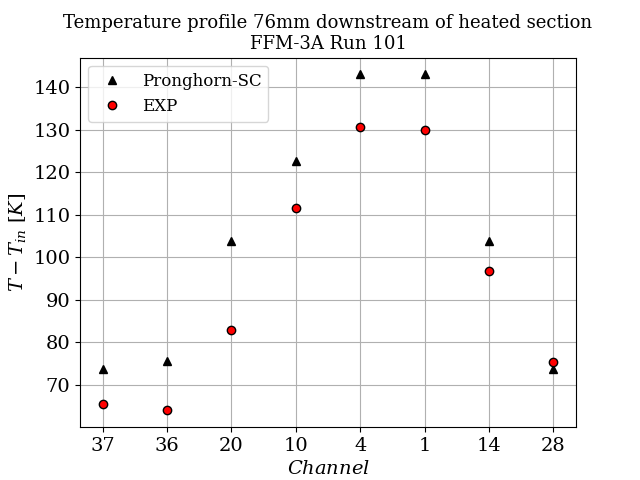
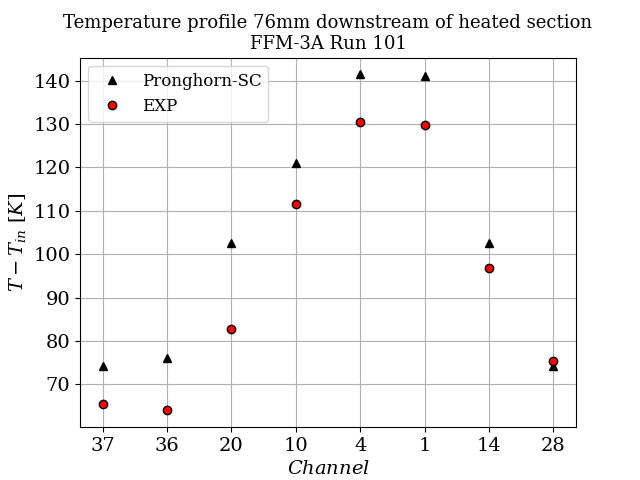
Added blockage validation case Refs #29484

diff --git a/modules/subchannel/examples/Blockage/plot5B.py b/modules/subchannel/examples/Blockage/plot5B.py
@@ -1,0 +1,41 @@
+import numpy as np
+import matplotlib.pyplot as plt
+
+############### MAKE PRETTY ###################
+plt.rcParams["font.family"] = "serif"
+plt.rcParams["mathtext.fontset"] = "dejavuserif"
+###############################################
+
+EXP_high = np.genfromtxt("T_EXP_HIGH.csv", skip_header=0, delimiter=',')
+EXP_low = np.genfromtxt("T_EXP_LOW.csv", skip_header=0, delimiter=',')
+SC = np.genfromtxt("FFM-5B_out.csv", skip_header=2, delimiter=',') - 273.15
+
+# plt.figure()
+# plt.plot(SC[1:], "k^", label = "Pronghorn-SC")
+# plt.plot(EXP_high[:, 1], "ko", markerfacecolor="r", label = "EXP")
+# plt.title(r"Temperature profile at thermocouple location" "\n" "High flow Exp, FFM Series 6, Test 12, Run 101", fontsize=13)
+# plt.xticks([i for i in range(len(EXP_high[:, 0]))],
+#            [str(int(i)) for i in EXP_high[:, 0]])
+# plt.xlabel(r'$Channel~\#$', fontsize=14)
+# plt.ylabel(r'$T~[C]$', fontsize=14)
+# plt.legend(fontsize=12)
+# plt.xticks(fontsize=14)
+# plt.yticks(fontsize=14)
+# plt.ylim(360,410)
+# plt.grid()
+# plt.savefig("FFM-5B.png")
+
+plt.figure()
+plt.plot(SC[1:], "k^", label = "Pronghorn-SC")
+plt.plot(EXP_low[:, 1], "ko", markerfacecolor="r", label = "EXP")
+plt.title(r"Temperature profile at thermocouple location" "\n" "Low flow Exp, FFM Series 6, Test 12, Run 109", fontsize=13)
+plt.xticks([i for i in range(len(EXP_low[:, 0]))],
+           [str(int(i)) for i in EXP_low[:, 0]])
+plt.xlabel(r'$Channel~\#$', fontsize=14)
+plt.ylabel(r'$T~[C]$', fontsize=14)
+plt.legend(fontsize=12)
+plt.xticks(fontsize=14)
+plt.yticks(fontsize=14)
+plt.ylim(500,580)
+plt.grid()
+plt.savefig("FFM-5B2.png")

diff --git a/modules/subchannel/examples/Blockage/plot2B.py b/modules/subchannel/examples/Blockage/plot2B.py
@@ -1,0 +1,27 @@
+# %%
+##### LOAD MODULES ###############
+import numpy as np
+import matplotlib.pyplot as plt
+SC = np.genfromtxt("FFM-2B_out.csv", skip_header=2, delimiter=',')
+############### MAKE PRETTY ###################
+plt.rcParams["font.family"] = "serif"
+plt.rcParams["mathtext.fontset"] = "dejavuserif"
+###############################################
+T_in = T_in = 589.15
+Channels = np.array([1, 2, 4, 6, 10, 35])
+EXP = np.array([15.96, 13.86, 14.7, 9.24, 14.7, 15.12])
+
+plt.figure()
+plt.plot(SC[1:] - T_in, "k^", markerfacecolor="k", label = "Pronghorn-SC")
+plt.plot(EXP, "ko", markerfacecolor="r", label = "EXP")
+plt.title(r"Temperature measurements 76mm downstream of heated section" "\n" "FFM-2A Run 719", fontsize=13)
+plt.xticks([i for i in range(len(Channels[:]))], [str(int(i)) for i in Channels[:]])
+plt.xlabel(r'$Channel~#$', fontsize=14)
+plt.ylabel(r'$T-T_{in}~[K]$', fontsize=14)
+plt.legend(fontsize=12)
+plt.xticks(fontsize=14)
+plt.yticks(fontsize=14)
+plt.grid()
+plt.savefig("FFM-2B.png")
+
+# %%

diff --git a/modules/subchannel/src/problems/SubChannel1PhaseProblem.C b/modules/subchannel/src/problems/SubChannel1PhaseProblem.C
@@ -403,7 +403,6 @@ SubChannel1PhaseProblem::populateVectorFromDense(Vec & x,
   CHKERRQ(ierr);
   return 0;
 }
-
 template <class T>
 PetscErrorCode
 SubChannel1PhaseProblem::populateVectorFromHandle(Vec & x,

diff --git a/modules/subchannel/doc/content/v&v/thors.md b/modules/subchannel/doc/content/v&v/thors.md
@@ -1,8 +1,11 @@
-# Subchannel model for the Thermal-Hydraulic Out-of-Reactor Safety Six-Channel Center Blockage Benchmark
+# Effect of Partial Blockages in Simulated LMFBR Fuel Assemblies
 
-## Benchmark Description
+Information on the THORS facility and experiments can be found in the following sources: [!cite](fontana1973effect),[!cite](han1977blockages),
+[!cite](jeong2005modeling).
 
-THORS bundle 3A also simulates the Fast Flux Test Facility and Clinch River Breeder Reactor configurations. Nineteen electrically heated pins are contained inside a round duct, which has unheated dummy pins along the duct wall. The central six channels (1, 2, 3, 4, 5 and 6) are blocked by a non-heat-generating 6.35-mm-thick stainless-steel plate [!cite](fontana1973effect). The bundle cross section is shown in [fig:thors]. The circles with the crosses indicate the position of thermocouples at the assembly exit. Pronghorn-SC modeled the THORS bundle 3A blockage with a 90% area reduction on the affected subchannels. The Pronghorn-SC model's geometry and subchannel and rod index notation is shown in [fig:hex_index]. The experimental parameters are presented in [parameters].
+## Central blockage of 6 channels in a 19-pin sodium-cooled bundle
+
+THORS bundle 3A simulates the Fast Flux Test Facility and Clinch River Breeder Reactor configurations.  Nineteen electrically heated pins are contained inside a round duct, which has unheated dummy pins along the duct wall. The central six channels ($1, 2, 3, 4, 5, 6$) are blocked by a non-heat-generating 35-mm-thick stainless-steel plate. The bundle cross section is shown in [fig:thors]. The circles with the crosses indicate the position of thermocouples at the assembly exit. Pronghorn-SC modeled the THORS bundle 3A blockage with a $92$% area reduction on the affected subchannels and a local form loss coefficient of $6$. The Pronghorn-SC model's geometry and subchannel/rod index notation is shown in [fig:hex_index]. The experimental parameters are presented in [parameters].
 
 !media figures/thors.png
     style=width:60%;margin-bottom:2%;margin:auto;
@@ -19,7 +22,7 @@ THORS bundle 3A also simulates the Fast Flux Test Facility and Clinch River Bree
 | :- | :- |
 | Number of pins (---) | $19$ |
 | Rod pitch (cm) | $0.726$ |
-| Rod diameter (cm) | $0.584$ |
+| Rod diameter (cm) | $0.5842$ |
 | Wire wrap diameter (cm) | $0.142$ |
 | Wire wrap axial pitch (cm) | $30.48$ |
 | Flat-to-flat duct distance (cm) | $3.41$ |
@@ -33,16 +36,23 @@ THORS bundle 3A also simulates the Fast Flux Test Facility and Clinch River Bree
 | Power profile (---) | Uniform |
 | Pin power (kW/m) | $33$ |
 
- Run 101 was chosen to validate Pronghorn-SC performance. The THORS experiment measured the temperatures at the exits of selected subchannels. Due to the approximation of the circular experimental test section with a hexagonal Pronghorn-SC model, there is a subchannel index correspondence between the two geometries as follows: 43(37), 42(36), 17(20), 16(10), 3(4), 6(1), 8(14) and 28(28). Where the number outside the parentheses refers to the Pronghorn-SC model and the number inside the parentheses refers to the experimental.
+ Run~$101$ was chosen to validate Pronghorn-SC performance. The THORS experiment measured the temperatures at the exit of selected subchannels. There is a subchannel index correspondence between the experiment and the model, as follows: 43(37), 42(36), 17(20), 16(10), 3(4), 6(1), 8(14) and 28(28). Where the number outside the parentheses refers to the Pronghorn-SC model and the number inside the parentheses refers to the experimental convention. Pronghorn-SC has no capablility to model triangular assemblies within circular ducts. The experimental circular duct is approximated with a hexagonal duct.
 
-## Results
+## Results for central blockage
 
-Figure [fig:thors_val] presents the exit temperature distribution, expressed as $T-T_{in}$ for the experimental case of 33 kW/m per pin and 100% flow at 54 gpm (Run~101), along with the Pronghorn-SC prediction. Predicted subchannel average temperatures agreed relatively well with measured experimental values for Run 101 with a six-channel center blockage with a bigger error in Subchannel 17(20). Nevertheless, Pronghorn-SC consistently over-predicted the exit temperature for all subchannels, which can be attributed to Pronghorn-SC's smaller cross-sectional area. It should be noted that Pronghorn-SC calculates surface averages while the experimental results are measured at the subchannel centers. As such, it is expected that Pronghorn-SC results will be a bit higher than the experimental values, since the location of the measurements is away from the heated walls in the center of the subchannels. The discrepancy in Subchannel 17(20) might very well be attributed to the location of the thermocouples and the approximate relationship between the model and actual experiment geometry. For the center subchannels where the Pronghorn-SC model geometry is more representative, the agreement is better. The poorer agreement in the exterior subchannels may be due to steeper temperature gradients in that region since the Pronghorn-SC code calculates average channel temperatures, whereas the thermocouples might be in a subchannel temperature gradient.
+Figure [fig:thors_val] presents the exit temperature distribution, expressed as $T-T_{in}$ along with the Pronghorn-SC calculation. For this case power was at $33kW/m$ per pin and $100$% flow at $54 gpm$. Predicted subchannel average temperatures agreed relatively well, with a bigger error in Subchannel 17(20).  It should be noted that Pronghorn-SC calculates surface averages while the experimental results are measured at the subchannel centers. As such, it is expected that Pronghorn-SC results will be a bit higher than the experimental values, since the location of the measurements is away from the heated rod walls. The discrepancy in Subchannel 17(20) might very well be attributed to the location of the thermocouples and the approximate relationship between the model and actual experiment geometry. For the center subchannels where the Pronghorn-SC model geometry is more representative, the agreement is better. The poorer agreement in the exterior subchannels may be due to steeper temperature gradients in that region since the Pronghorn-SC code calculates average channel temperatures, whereas the thermocouples might be in a subchannel temperature gradient.
 
 !media figures/FFM-3A.png
     style=width:60%;margin-bottom:2%;margin:auto;
     id=fig:thors_val
-    caption= Exit temperature profile.
+    caption= Exit temperature profile ($C_T = 1$).
+
+Thus far, the turbulent modeling parameter $C_T$ has been calibrated only for square lattice, bare fuel pin assemblies. As such, in the above example $C_T$ was arbitarily set to be equal to $1$. As a reminder $C_T$ is a tuning parameter that affects the amount of momentum mixing. Higher $C_T$ means more turbulent momentum mixing and flatter velocity profiles. For $C_T = 10$ the code calculation is presented in Figure [fig:thors_val2]. This calculation presents a better agreement with the experimental results, which suggests that the presence of a blockage induces mixing.
+
+!media figures/FFM-3A2.png
+    style=width:60%;margin-bottom:2%;margin:auto;
+    id=fig:thors_val2
+    caption= Exit temperature profile ($C_T = 10$).
 
 A CFD model was developed to use as a reference solution and to further evaluate Pronghorn-SC's performance. The CFD model had about 1 million cells and utilized an implicit unsteady transient solver. Segregated fluid and energy solvers, $k-\omega$ turbulence modeling and the default polyhedral STAR-CCM+ mesher were used. [fig:CFD-vector],[fig:CFD-velocity] and [fig:CFD-temperature] present the CFD simulation results on a 2D plane around the blockage location.
 
@@ -77,10 +87,60 @@ It should be noted that the effect of the simulated blockage, depends on the axi
 
 ## Subchannel Inputs
 
-The input file to run the blockage case (Run~101) is presented below:
+The input file to run the central blockage case is presented below:
 
 !listing /examples/Blockage/FFM-3A.i language=cpp
 
 The file that creates the detailed mesh that subchannel solution gets projected on is presented below:
 
 !listing /examples/Blockage/FFM-3Adetailed.i language=cpp
+
+## Edge blockage of 14 channels in 19-pin sodium-cooled bundles
+
+THORS bundle 5B has the same fuel configuration as bundle 2B, except that 0.0711-cm-diam wire-wrap spacers are used to separate the peripheral pins from the duct wall. The half-size spacers are used to reduce the flow in the peripheral flow channels and to cause a flatter radial temperature profile across the bundle. It also means that the flat-to-flat distance is reduced appropiately. The pins have a heated length of $45.7 cm$. A 3175-cm-thick stainless steel blockage plate is located $10.2 cm$  above the start of the heated zone to block $14$ edge and internal channels along the duct wall. The test section layout is shown in Fig [fig:thors2]. The experimental parameters for the chosen case are presented in [parameters2]. Pronghorn-SC modeled the THORS bundle 5B blockage with a $92$% area reduction on the affected subchannels and a local form loss coefficient of $6$. $C_T$ was set to $10$ as in the previous case. The Pronghorn-SC model's geometry and subchannel/rod index notation is shown in [fig:hex_index].
+
+!media figures/thors2.png
+    style=width:60%;margin-bottom:2%;margin:auto;
+    id=fig:thors2
+    caption= THORS bundle 5B cross section.
+
+!table id=parameters2 caption=Design and operational parameters for THORS 14-channel edge blockage benchmark.
+| Experiment Parameter (unit) | Value |
+| :- | :- |
+| Number of pins (---) | $19$ |
+| Rod pitch (cm) | $0.726$ |
+| Rod diameter (cm) | $0.5842$ |
+| Wire wrap diameter (cm) | $0.1422$ |
+| Wire wrap axial pitch (cm) | $30.5$ |
+| Flat-to-flat duct distance (cm) | $3.241$ |
+| Inlet length (cm) | $40.64$ |
+| Heated length (cm) | $45.72$ |
+| Outlet length (cm) | $15.24$  |
+| Blockage location (cm) | $95.96$ |
+| Outlet pressure (Pa) | $2.0 \times 10^{5}$ |
+| Inlet temperature (K) | $596.75/541.55$ |
+| Inlet velocity (m/s) | $6.93/0.48$ |
+| Power profile (---) | Uniform |
+| Power (kW) | $145/52.8$ |
+
+## Results for edge blockage
+
+The case presented here is the high flow case (FFM Series 6, Test 12, Run 101). The thermocouples are located at the middle of the exit region. There is a subchannel index correspondence between the Figure [fig:thors2] and the Pronhorn-SC model shown in Figure[fig:hex_index] as follows: 34(39), 33(38), 18(20), 9(19), 3(4), 0(1), 12(11) and 25(30). Where the number outside the parentheses refers to the Pronghorn-SC model and the number inside the parentheses, refers to the experimental convention. Pronghorn-SC calculation along with the experimental measurements is shown in Figure [fig:FFM-5B]. The code calculations excibits generally good agreement with the experimental measurements. The least agreement occurs at the edge subchannels ($34,33$) which is likely due to the model not accuretally replicating the flow area there. Prongohorn-SC uses an assembly-wide constant wire diameter, while in the experimental assembly the wires at the edge subchannels had half the diameter.
+
+!media figures/FFM-5B.png
+    style=width:60%;margin-bottom:2%;margin:auto;
+    id=fig:FFM-5B
+    caption= Exit temperature profile for high flow case ($C_T = 10$).
+
+The second case presented here is the low flow case (FFM Series 6, Test 12, Run 109). The thermocouples are located at the middle of the exit region, same as before. Pronghorn-SC calculation along with the experimental measurements is shown in Figure [fig:FFM-5B2]. The code calculations excibits good agreement with the experimental measurements.
+
+!media figures/FFM-5B2.png
+    style=width:60%;margin-bottom:2%;margin:auto;
+    id=fig:FFM-5B2
+    caption= Exit temperature profile for low flow case ($C_T = 10$).
+
+## Subchannel Input
+
+The input file to run the edge blockage case is presented below:
+
+!listing /examples/Blockage/FFM-5B.i language=cpp

diff --git a/modules/subchannel/doc/content/v&v/v&v-list.md b/modules/subchannel/doc/content/v&v/v&v-list.md
@@ -3,22 +3,22 @@
 !table id=verification caption=Verification of physics models.
 | Case | Title |
 | :- | :- |
-| 1 | [Friction Model Verification](friction.md) |
-| 2 | [Enthalpy Mixing Model Verification](enthalpy.md) |
+| 1 | [Friction Model, Verification](friction.md) |
+| 2 | [Enthalpy Mixing Model, Verification](enthalpy.md) |
 
 ## List of validation cases
 
 !table id=validation caption=Water benchmarks.
 | Case | Title |
 | :- | :- |
-| 1 | [PSBT $5\times5$-pin Validation](PSBT.md) |
-| 2 | [PNNL $2\times6$-pin Validation](pnnl_12_pin.md) |
-| 3 | [PNNL $7\times7$-pin sleeve blockage Validation](pnnl_blockage.md)
+| 1 | [PSBT $5\times5$-pin, Validation](PSBT.md) |
+| 2 | [PNNL $2\times6$-pin, Validation](pnnl_12_pin.md) |
+| 3 | [PNNL $7\times7$-pin sleeve blockage, Validation](pnnl_blockage.md)
 
 !table id=validation2 caption=Liquid Sodium benchmarks.
 | Case | Title |
 | :- | :- |
-| 1 | [ORNL $19$-pin Validation](ornl_19_pin.md) |
-| 2 | [Toshiba $37$-pin Validation](toshiba_37_pin.md) |
-| 3 | [EBR-II, SHRT-17,SHRT-45R Validation](EBR-II.md) |
-| 4 | [THORS $6$-channel blocklage Validation](thors.md) |
+| 1 | [ORNL $19$-pin, Validation](ornl_19_pin.md) |
+| 2 | [Toshiba $37$-pin, Validation](toshiba_37_pin.md) |
+| 3 | [EBR-II, SHRT-17,SHRT-45R, Validation](EBR-II.md) |
+| 4 | [ORNL Thermal-Hydraulic Out-of-Reactor Safety (THORS) Facility blockage, Validation](thors.md) |

diff --git a/modules/subchannel/doc/content/v&v/pnnl_blockage.md b/modules/subchannel/doc/content/v&v/pnnl_blockage.md
@@ -2,7 +2,7 @@
 
 ## Benchmark Description
 
-PNL's $7 \times 7$ sleeve blockage facility was designed to investigate the turbulent flow phenomena near postulated sleeve blockages in a model nuclear fuel rod bundle. The sleeve blockages were characteristic of fuel-clad `swelling` or `ballooning`, which could occur during loss-of-coolant accidents in pressurized-water reactors [!citep](creer1976effects). The experimental parameters are presented in [parameters].
+PNL's $7 \times 7$ sleeve blockage facility was designed to investigate the turbulent flow phenomena near postulated sleeve blockages in a model nuclear fuel rod bundle. The sleeve blockages were characteristic of fuel-clad `swelling` or `ballooning`, which could occur during loss-of-coolant accidents in pressurized-water reactors [!cite](creer1976effects). The experimental parameters are presented in [parameters].
 
 !table id=parameters caption=Design and operational parameters for PNL's $7\times7$ sleeve blockage benchmark.
 | Experiment Parameter (unit) | Value |
